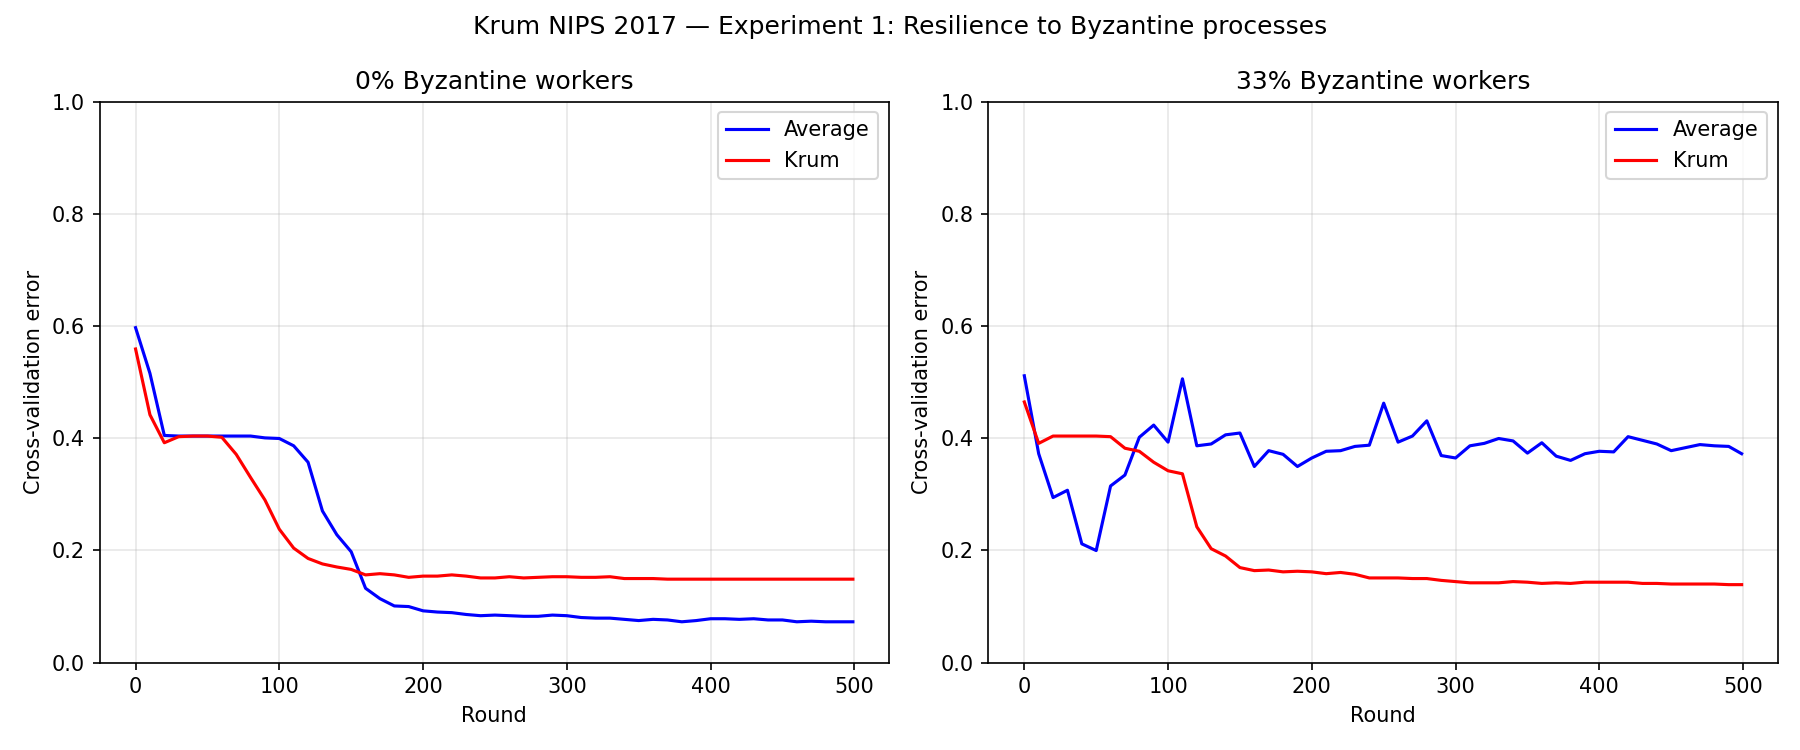
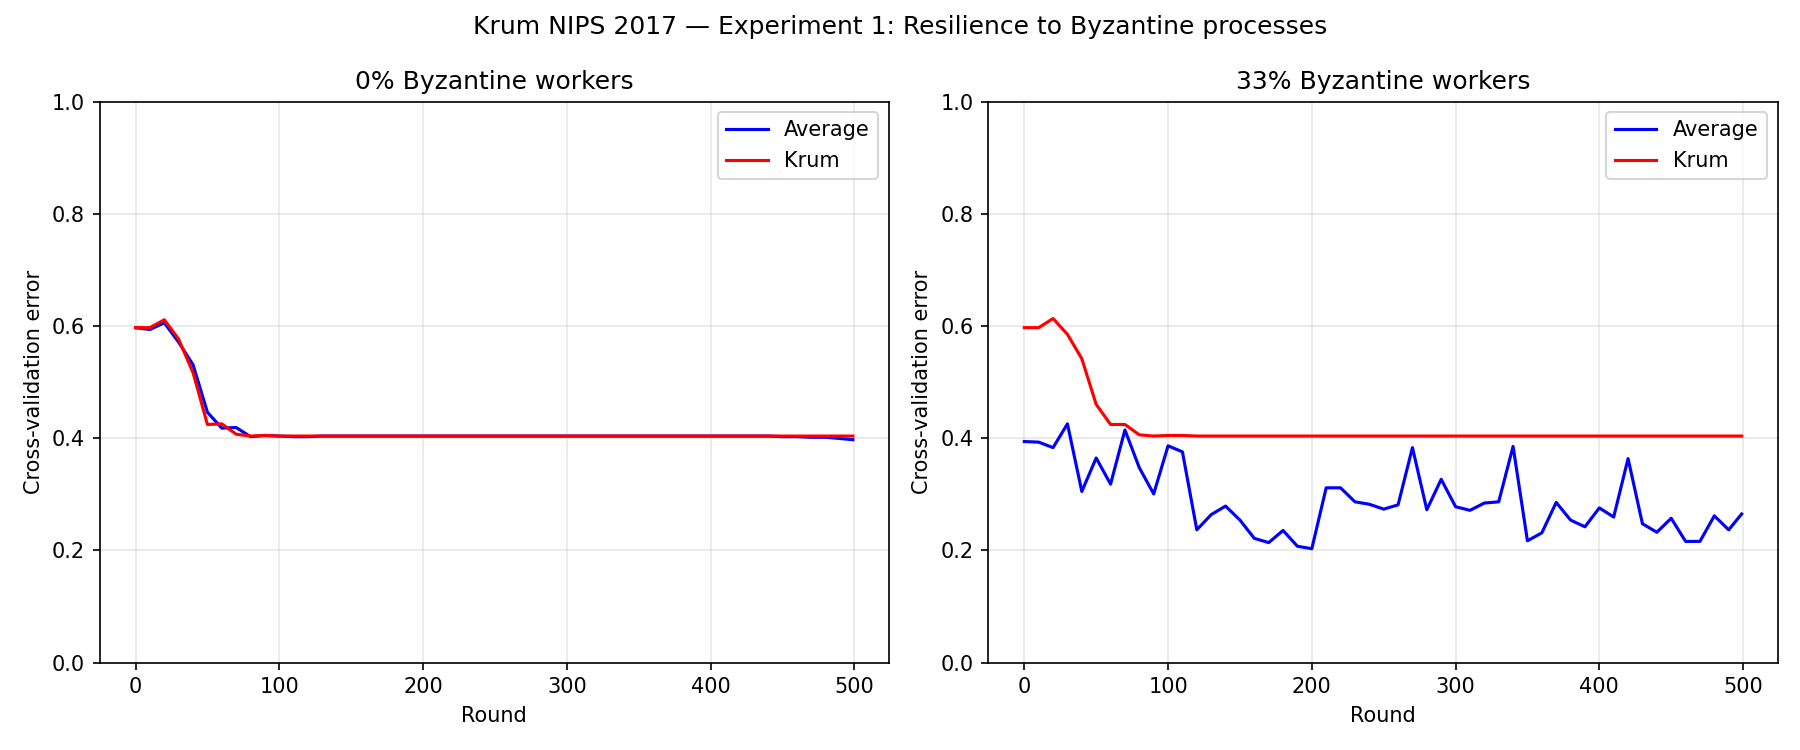
Fix MultiKrum error message and tweak experiment
Use local f and n in MultiKrum validation message to show correct
values.

Remove lr_decay from experiment_1 and stop decaying the optimizer
learning rate, set default lr to 0.01, and re-seed before each run.
Update result artifacts.

diff --git a/krum/simulations/krum-nips-2017/experiment_1.py b/krum/simulations/krum-nips-2017/experiment_1.py
@@ -109,7 +109,6 @@ def run_simulation(
     rounds: int,
     batch_size: int,
     lr: float,
-    lr_decay: float,
     model_cls: type[nn.Module],
     train_set: Dataset[Any],
     test_loader: DataLoader[Any],
@@ -184,9 +183,6 @@ def run_simulation(
         model.set_gradients(aggregated)
         opt.step()
 
-        for pg in opt.param_groups:
-            pg["lr"] *= lr_decay
-
         if t % 10 == 0 or t == rounds - 1:
             error = _evaluate(model, test_loader, device)
             errors.append((t, error))
@@ -209,8 +205,7 @@ def main() -> None:
     rounds = 500
     n = 20
     batch_size = 3
-    lr = 0.05
-    lr_decay = 0.999
+    lr = 0.01
     f_list = [0, int(n * 0.33)]
 
     train_set, test_set = spambase_dataset()
@@ -225,6 +220,7 @@ def main() -> None:
             agg = agg_cls(n=n, f=f)
             label = f"{agg_label}_f{f}"
             print(f"\n=== {label} ===")
+            _set_seed(seed, device)
             errors = run_simulation(
                 label=label,
                 aggregator=agg,
@@ -233,7 +229,6 @@ def main() -> None:
                 rounds=rounds,
                 batch_size=batch_size,
                 lr=lr,
-                lr_decay=lr_decay,
                 model_cls=MLPSpambase,
                 train_set=train_set,
                 test_loader=test_loader,
